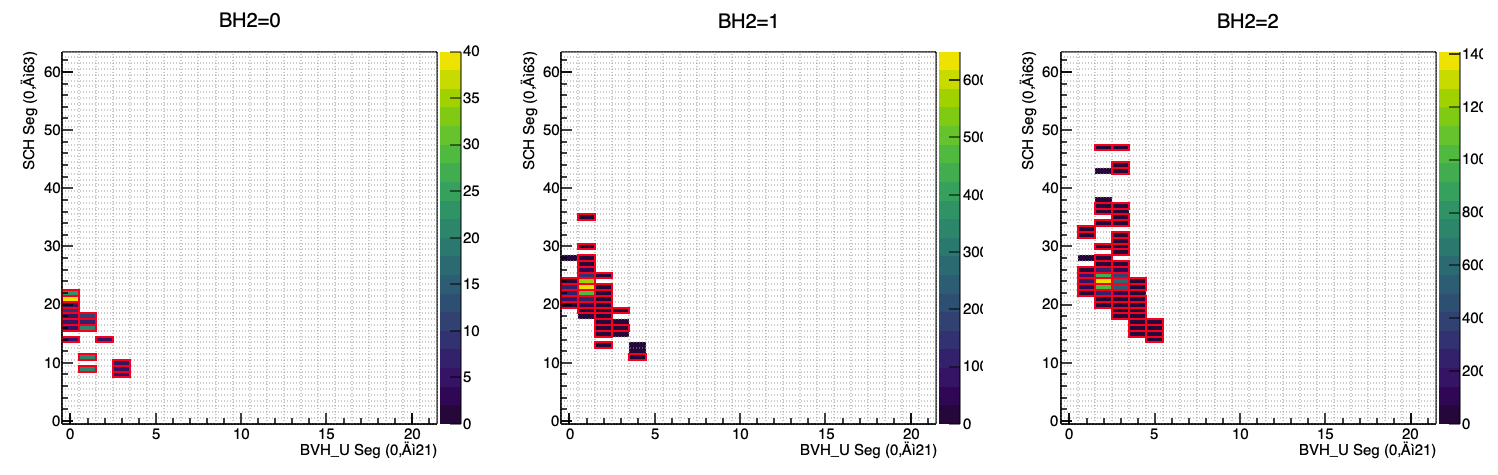
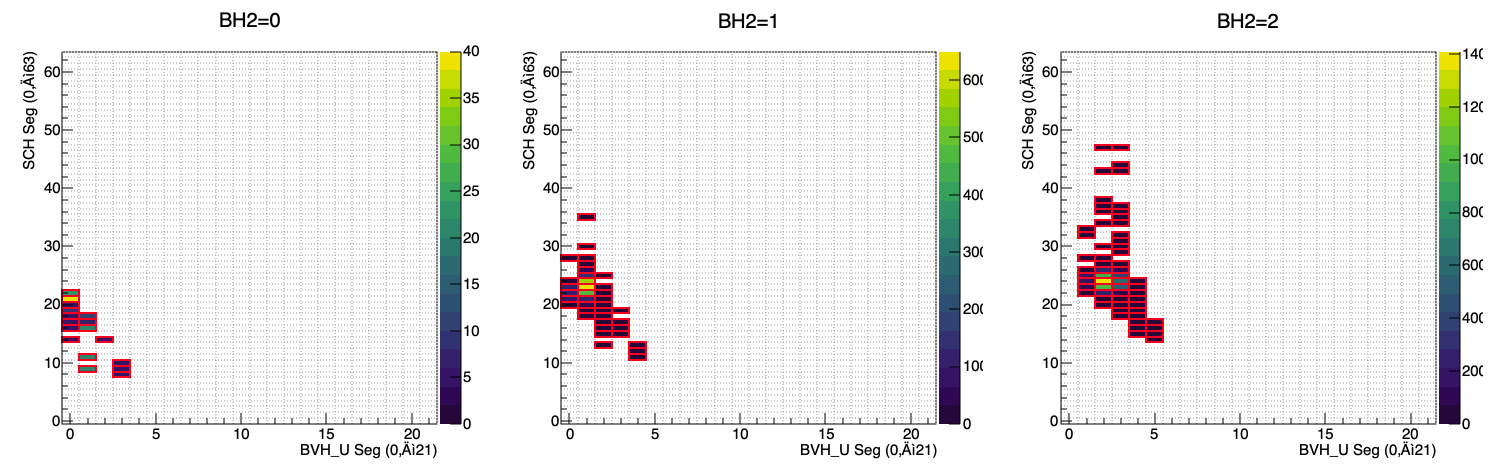
BVH_U 60 mm

diff --git a/src/PrimaryGeneratorAction.cc b/src/PrimaryGeneratorAction.cc
@@ -3868,77 +3868,109 @@ void PrimaryGeneratorAction::GenerateE45_2PiN_PipPim_n_PhaseSpace(G4Event* anEve
 
 //_____________________________________________________________________________
 //_____________________________________________________________________________
-// 7219 : pi- p -> pi- pi0 p  (flat 3-body phase space) [최종 수정 버전 2]
+//
+// 7219 : [PURE OVERKILL MODE]
+//   - Upstream fake-beam: LH2 center에서 "π+"를 -p̂_beam 방향으로 1발 (BH2/BVH_U만 켜기)
+//   - Final state: LH2 center에서 π−p → π− π0 p (flat 3-body phase space)
+//   - 실제 beam-through(타겟으로 +z로 들어오는 π−)는 생성하지 않음
+//
 void PrimaryGeneratorAction::GenerateE45_2PiN_PimPi0_p_PhaseSpace(G4Event* anEvent)
 {
-  // -- masses (GeV)
+  using namespace CLHEP;
+
+  // --- particle masses (GeV)
+  const double mPip = m_PionPlus ->GetPDGMass()/GeV;
   const double mPim = m_PionMinus->GetPDGMass()/GeV;
   const double mPi0 = m_PionZero ->GetPDGMass()/GeV;
   const double mP   = m_Proton   ->GetPDGMass()/GeV;
 
-  // -- beam 3-momentum (GeV/c)
+  // --- beam 3-momentum from BeamMan (GeV/c), keep original correlations
   TVector3 p_beam(m_beam->mom.x()/GeV, m_beam->mom.y()/GeV, m_beam->mom.z()/GeV);
   if (gAnaMan.GetDoCombine()) {
     G4ThreeVector next = gAnaMan.GetNextMom();
     p_beam.SetXYZ(next.getX(), next.getY(), next.getZ());
   }
+  const double pmag = p_beam.Mag();
+  if(!(pmag>0) || !std::isfinite(pmag)) return;
 
-  // ======[ 1. 입사 파이온 빔 생성 (BH2, BVH_U hit 생성용) ]======
-  G4LorentzVector p_in_g4(m_beam->mom,
-                          std::sqrt(m_beam->mom.mag2() + std::pow(mPim*GeV, 2)));
-  G4LorentzVector v_in_g4(m_beam->pos, 0.0);
-  
-  m_particle_gun->SetParticleDefinition(m_PionMinus);
-  m_particle_gun->SetParticleMomentumDirection(p_in_g4.v());
-  m_particle_gun->SetParticleEnergy(p_in_g4.e() - p_in_g4.m());
-  m_particle_gun->SetParticlePosition(v_in_g4.v());
+  // === [1] Upstream fake-beam (π+, -p̂_beam) @ LH2 center =====================
+  // π−(+z)를 대칭 재현하기 위해 v를 뒤집을 때 전하도 뒤집음 → π+(−z)
+  const double E_up_GeV  = std::sqrt(pmag*pmag + mPip*mPip);
+  const double KE_up_GeV = E_up_GeV - mPip;
+
+  const G4ThreeVector vtx_LH2 = m_target_pos;       // LH2 중심 고정
+  const G4ThreeVector nhat_g4 = m_beam->mom.unit(); // G4ThreeVector
+
+  m_particle_gun->SetParticleDefinition(m_PionPlus);         // π+
+  m_particle_gun->SetParticleMomentumDirection((-nhat_g4).unit());
+  m_particle_gun->SetParticleEnergy(KE_up_GeV*GeV);          // KE
+  m_particle_gun->SetParticlePosition(vtx_LH2);
   m_particle_gun->GeneratePrimaryVertex(anEvent);
-  gAnaMan.SetPrimaryParticle(0, -211, p_in_g4, v_in_g4);
 
+  // (선택) 분석 저장: 0번 입자 = upstream fake-beam (π+)
+  {
+    G4LorentzVector p_up_g4((-nhat_g4)*pmag*GeV, E_up_GeV*GeV);
+    G4LorentzVector v_up_g4(vtx_LH2, 0.0);
+    gAnaMan.SetPrimaryParticle(0, +211, p_up_g4, v_up_g4);
+    if(1 < (int)(sizeof(m_primary_pdg)/sizeof(m_primary_pdg[0])))
+      m_primary_pdg[0] = +211;
+  }
 
-  // -- initial in Lab
-  TLorentzVector LVpi (p_beam, TMath::Hypot(p_beam.Mag(), mPim));
-  TLorentzVector LVpro(0.,0.,0., mP);
+  // === [2] Reaction in Lab: π−(p_beam) + p(at rest)  ==========================
+  TLorentzVector LVpi (p_beam, std::hypot(p_beam.Mag(), mPim)); // GeV
+  TLorentzVector LVpro(0.,0.,0., mP);                           // GeV
   TLorentzVector W = LVpi + LVpro;
 
-  // -- 3-body threshold check
+  // --- 3-body threshold check
   const double Wabs = W.M();
   const double Wth  = mPim + mPi0 + mP;
   const G4bool above = (Wabs > Wth);
   gAnaMan.SetThresholdCondition(above);
-  if (!above) return;
+  if (!above) return; // 문턱 이하면 최종입자 생략 (이벤트: upstream π+만 존재)
 
-  // -- 3-body flat phase space
+  // === [3] Flat 3-body phase space: π−, π0, p  ================================
   static const int n_dau = 3;
-  double masses[n_dau] = { mPim, mPi0, mP }; // pi-, pi0, p
+  double masses[n_dau] = { mPim, mPi0, mP }; // daughter order: π−, π0, p
+
   TGenPhaseSpace event;
   event.SetDecay(W, n_dau, masses);
-  event.Generate();
 
-  // -- vertex
-  G4ThreeVector vtx = gAnaMan.GetVertexPos();
-  G4LorentzVector v(vtx);
+  // (옵션) 다운스트림 히트 보장: 하전입자(π− 또는 p) 중 하나가 +z 가도록 ≤100회 재샘플
+  int tries = 0;
+  for(;;){
+    event.Generate(); // flat PS
+    bool ok = false;
+    // i=0:π−, i=1:π0, i=2: p  (outs[]와 매칭)
+    const TLorentzVector* d0 = event.GetDecay(0);
+    const TLorentzVector* d2 = event.GetDecay(2);
+    if( (d0 && d0->Pz()>0) || (d2 && d2->Pz()>0) ) ok = true;
+    if(ok || ++tries>100) break;
+  }
 
-  // ======[ 2. 최종 상태 입자 생성 (BVH_D hit 생성용) ]======
+  // === [4] Spawn final-state at LH2 center ====================================
+  G4LorentzVector v_final(vtx_LH2);
   struct Out { const G4ParticleDefinition* P; int pdg; } outs[n_dau] = {
-    { m_PionMinus,  -211 },
-    { m_PionZero ,   111 },
-    { m_Proton   ,  2212 }
+    { m_PionMinus,  -211 },   // i=0
+    { m_PionZero ,   111 },   // i=1
+    { m_Proton   ,  2212 }    // i=2
   };
 
-  for (int i=0; i < n_dau; ++i) {
-    const TLorentzVector* d = event.GetDecay(i);
+  for (int i=0; i<n_dau; ++i) {
+    const TLorentzVector* d = event.GetDecay(i); // GeV
     G4LorentzVector p(d->Px()*GeV, d->Py()*GeV, d->Pz()*GeV, d->E()*GeV);
+
     m_particle_gun->SetParticleDefinition(const_cast<G4ParticleDefinition*>(outs[i].P));
     m_particle_gun->SetParticleMomentumDirection(p.v());
-    m_particle_gun->SetParticleEnergy(p.e() - p.m());
-    m_particle_gun->SetParticlePosition(v.v());
+    m_particle_gun->SetParticleEnergy(p.e() - p.m()); // KE = E - m
+    m_particle_gun->SetParticlePosition(v_final.v());
     m_particle_gun->GeneratePrimaryVertex(anEvent);
 
-    gAnaMan.SetPrimaryParticle(i + 1, outs[i].pdg, p, v);
-    m_primary_pdg[i + 1] = outs[i].pdg;
+    gAnaMan.SetPrimaryParticle(i+1, outs[i].pdg, p, v_final);
+    if(i+1 < (int)(sizeof(m_primary_pdg)/sizeof(m_primary_pdg[0])))
+      m_primary_pdg[i+1] = outs[i].pdg;
   }
 }
+
 //_____________________________________________________________________________
 //case 7202
 void

diff --git a/root/BVH_3D_SCH.C b/root/BVH_3D_SCH.C
@@ -1,10 +1,11 @@
-// BVH_3D_with_SCH.C
+// BVH_3D_with_SCH.C  (SCH overlap-aware)
 // - BH2(15), BVH_U(22), SCH(64) 브랜치 사용
 // - 에너지 컷(MeV): BH2>=ecutBH2MeV, BVH_U>=ecutUMeV, SCH>=ecutSCHMeV
 // - BH2 세그먼트별로 (BVH_U x SCH) 22x64 2D 히스토그램 생성
-// - 지정 횟수(event_threshold) 초과 bin에 빨간 박스 표시
-// - 2-pass 방식으로 event-level veto rate 계산(동일 로직 유지)
-// - 브랜치 이름 자동 탐색(과거 파일 호환: "BVH", "/SCH", "SCHHits" 등)
+// - 지정 횟수(event_threshold) 이상(>=) bin에 빨간 박스 표시
+// - 2-pass 방식(event-level)으로 veto rate 계산
+// - 브랜치 이름 자동 탐색(과거 파일 호환)
+// - NEW: SCH 세그 겹침을 고려한 매칭 마스크 SCH-축 팽창(dilation) 옵션
 
 #include "Rtypes.h"
 #include "TFile.h"
@@ -30,6 +31,10 @@
 static const int N_BH2  = 15; // 0..14
 static const int N_BVHU = 22; // 0..21
 static const int N_SCH  = 64; // 0..63
+
+// ====== Matching options ======
+static const bool use_sch_dilation     = true; // SCH 겹침 보정 사용
+static const int  sch_dilate_halfwidth = 1;    // ±1 strip 확장 (겹침≈1.5 mm 가정)
 
 // ===== Helper: branch auto-bind =====
 static bool bind_branch(TTree* tr, const char* preferred,
@@ -67,7 +72,7 @@ static inline void get_unique_hits(const std::vector<TParticle>* v,
 }
 
 // ================== Main Analysis Function ==================
-void BVH_3D(const char* fname = "E45_SCH3.root",
+void BVH_3D(const char* fname = "E45_SCH2.root",
             double ecutBH2MeV   = 0.10,
             double ecutUMeV     = 0.04,
             double ecutSCHMeV   = 0.04,
@@ -126,17 +131,37 @@ void BVH_3D(const char* fname = "E45_SCH3.root",
   }
   std::cout << "\n[Info] Filling finished." << std::endl;
 
-  // 5) Build highlighted masks (counts > threshold)
-  std::vector< std::vector<char> > mask(N_BH2, std::vector<char>(N_BVHU * N_SCH, 0));
+  // 5) Build highlighted masks
+  //    base_mask: 원래(카운트 >= threshold) 칸만 1
+  //    mask     : base_mask를 SCH축으로 ±sch_dilate_halfwidth 확장(겹침 보정)
+  std::vector< std::vector<char> > base_mask(N_BH2, std::vector<char>(N_BVHU * N_SCH, 0));
+  std::vector< std::vector<char> > mask      (N_BH2, std::vector<char>(N_BVHU * N_SCH, 0));
+
   for(int h=0; h<N_BH2; ++h){
     TH2F* H = h_ud[h];
-    for(int bx=1; bx<=H->GetNbinsX(); ++bx)
-      for(int by=1; by<=H->GetNbinsY(); ++by)
-        if(H->GetBinContent(bx,by) > event_threshold)
-          mask[h][(bx-1)*N_SCH + (by-1)] = 1;
+    for(int bx=1; bx<=H->GetNbinsX(); ++bx){
+      for(int by=1; by<=H->GetNbinsY(); ++by){
+        if(H->GetBinContent(bx,by) >= event_threshold){
+          const int u = bx-1;
+          const int s = by-1;
+          base_mask[h][u*N_SCH + s] = 1;
+
+          // --- dilation on SCH axis ---
+          if(use_sch_dilation){
+            const int s_lo = std::max(0, s - sch_dilate_halfwidth);
+            const int s_hi = std::min(N_SCH-1, s + sch_dilate_halfwidth);
+            for(int ss = s_lo; ss <= s_hi; ++ss){
+              mask[h][u*N_SCH + ss] = 1;
+            }
+          }else{
+            mask[h][u*N_SCH + s] = 1;
+          }
+        }
+      }
+    }
   }
 
-  // 6) Second pass: event-level veto counting
+  // 6) Second pass: event-level veto counting (match uses 'mask')
   Long64_t denom_all = 0, num_all = 0;
   std::vector<Long64_t> denom_h(N_BH2, 0), num_h(N_BH2, 0);
 
@@ -177,7 +202,7 @@ void BVH_3D(const char* fname = "E45_SCH3.root",
   }
   std::cout << "\n[Info] Event-level counting finished." << std::endl;
 
-  // 7) Draw histograms + grid + red boxes, and save canvases
+  // 7) Draw histograms + grid + red boxes (red = base_mask bins only)
   gStyle->SetOptStat(0);
   gStyle->SetPalette(kViridis);
 
@@ -214,9 +239,10 @@ void BVH_3D(const char* fname = "E45_SCH3.root",
       grid_line->DrawLine(x_min, y_pos, x_max, y_pos);
     }
 
+    // 빨간 박스: 원래(>=threshold) 칸만 시각화
     for (int bx = 1; bx <= H->GetNbinsX(); ++bx) {
       for (int by = 1; by <= H->GetNbinsY(); ++by) {
-        if (H->GetBinContent(bx, by) > event_threshold) {
+        if (H->GetBinContent(bx, by) >= event_threshold) {
           const double x1 = H->GetXaxis()->GetBinLowEdge(bx);
           const double x2 = H->GetXaxis()->GetBinUpEdge(bx);
           const double y1 = H->GetYaxis()->GetBinLowEdge(by);
@@ -231,7 +257,7 @@ void BVH_3D(const char* fname = "E45_SCH3.root",
     }
     gPad->RedrawAxis();
 
-    // 페이지 저장(편의)
+    // 페이지 저장
     if (h % 3 == 2 || h == N_BH2-1) {
       TString out = TString::Format("bvhu_sch_bh2_%02d_to_%02d.png",
                                     h - (h%3), std::min(h - (h%3) + 2,N_BH2-1));
@@ -246,7 +272,9 @@ void BVH_3D(const char* fname = "E45_SCH3.root",
   std::cout << "BH2 energy cut (MeV)        : " << ecutBH2MeV << "\n";
   std::cout << "BVH_U energy cut (MeV)      : " << ecutUMeV     << "\n";
   std::cout << "SCH energy cut (MeV)        : " << ecutSCHMeV   << "\n";
-  std::cout << "Highlight threshold (counts): " << event_threshold << "\n";
+  std::cout << "Highlight threshold (counts): " << event_threshold << " (>=)\n";
+  std::cout << "SCH dilation                : " << (use_sch_dilation ? "ON" : "OFF")
+            << "  (±" << sch_dilate_halfwidth << ")\n";
   std::cout << "Events with BH2 hit (denom) : " << denom_all << "\n";
   if(denom_all>0){
     double rate_all = (double)num_all / (double)denom_all;
@@ -276,8 +304,10 @@ void BVH_3D(const char* fname = "E45_SCH3.root",
 
 // ================== Convenience wrapper ==================
 void run_analysis() {
-  int event_threshold = 1; // ex) 300 이상에 빨간 박스
-  BVH_3D("E45_SCH3.root", 0.10, 0.04, 0.04, event_threshold);
+  int event_threshold = 1; // 빨간 박스는 카운트가 "1 이상"인 bin
+  BVH_3D("E45_SCH2.root", 0.10, 0.04, 0.04, event_threshold);
   std::cout << "[Config] Red boxes mark bins with counts >= "
-            << event_threshold << "." << std::endl;
+            << event_threshold << ".  (SCH dilation="
+            << (use_sch_dilation ? "ON" : "OFF")
+            << ", ±" << sch_dilate_halfwidth << ")\n";
 }

diff --git a/root/view_detectors_SCH.C b/root/view_detectors_SCH.C
@@ -43,7 +43,7 @@ static void draw_sch_overlay(double center_x, double seg_w=11.5, double seg_h=43
 }
 
 // ---------- main ----------
-void view_detectors_SCH(const char* fname="E45_SCH3.root",
+void view_detectors_SCH(const char* fname="E45_SCH_7218.root",
                         double schCenterX=420.0,
                         double schSegW=11.5,
                         double schSegH=434.0,   // 액티브 길이로 통일

diff --git a/src/DetectorConstruction.cc b/src/DetectorConstruction.cc
@@ -117,9 +117,9 @@ DetectorConstruction::Construct()
   ConstructBAC();
   ConstructKVC();
   ConstructBVH_U();
-  //ConstructBVH_D();
+  ConstructBVH_D();
   ConstructT0();
-  ConstructSCH();
+  //ConstructSCH();
 
 #endif
 
